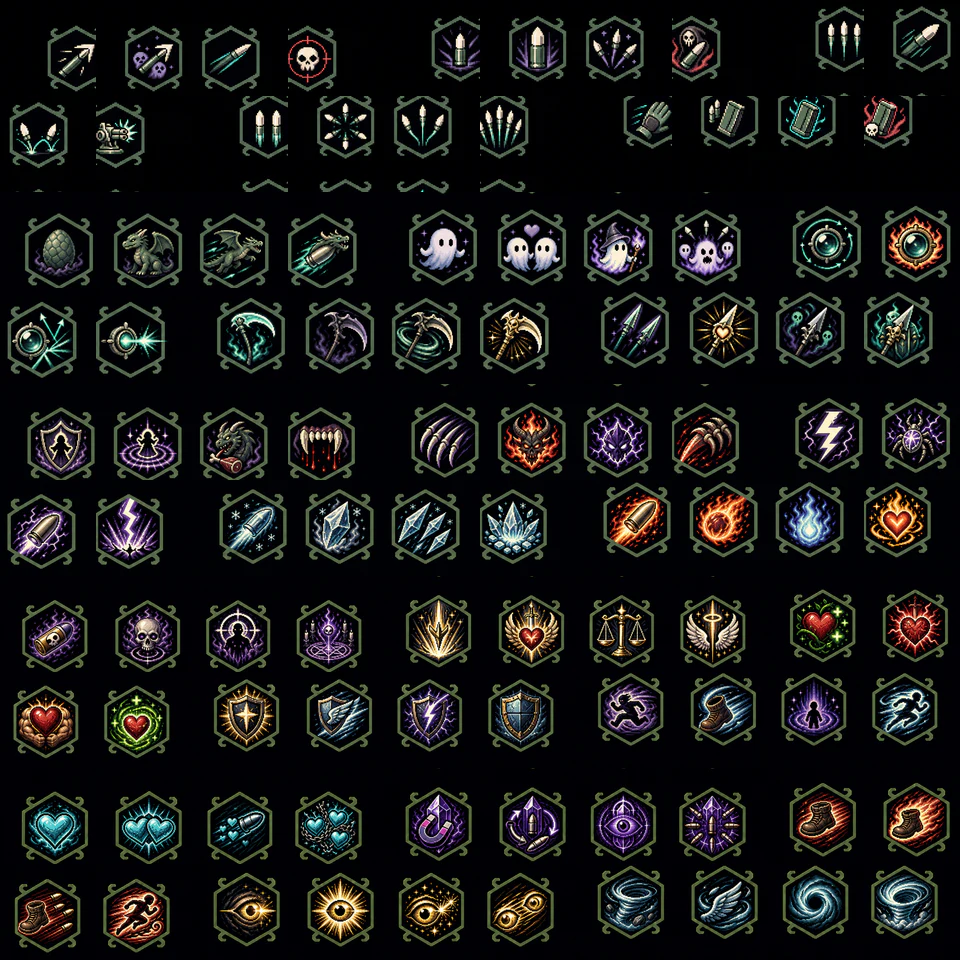
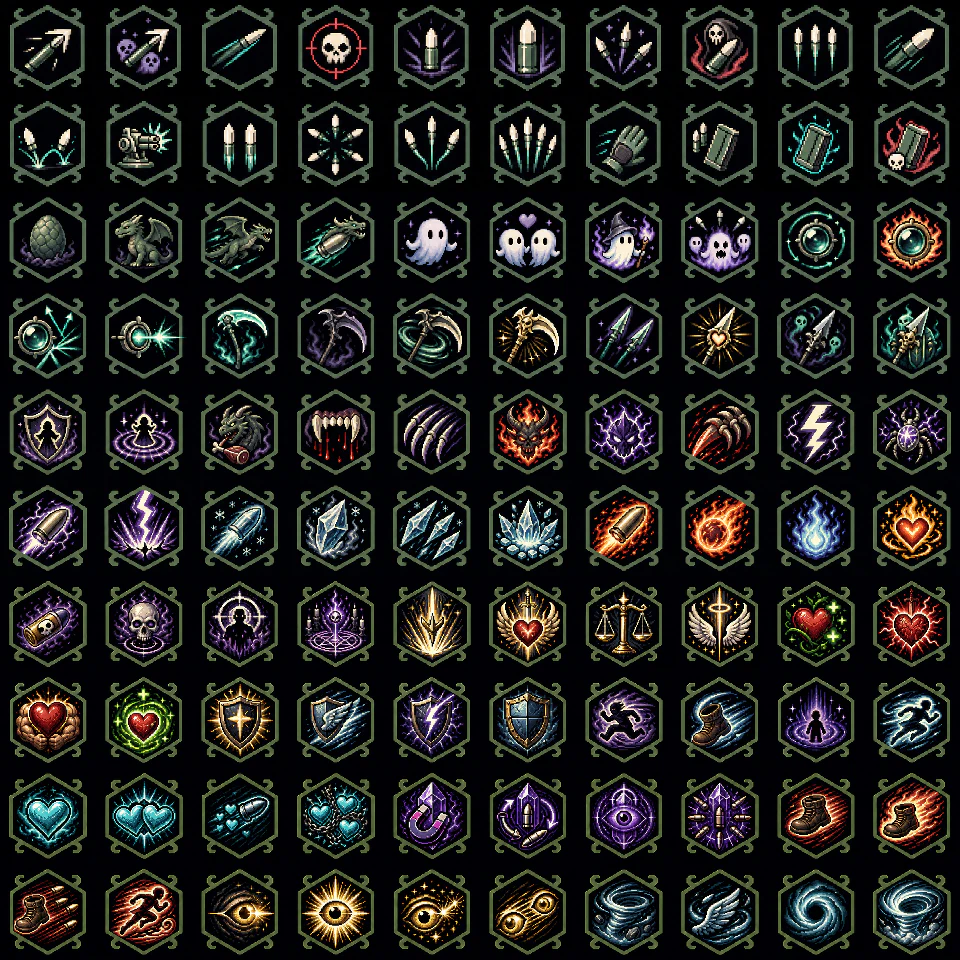
fix: center generated upgrade atlas

diff --git a/styles.css b/styles.css
@@ -102,14 +102,14 @@ h2 { margin: 2px 0 18px; font-size: clamp(28px, 8vw, 44px); line-height: 1; }
 .choice-actions .primary { background: #ff596f; color: #211824; }
 .choice-actions .secondary { min-width: 130px; }
 .choice-card__icon { grid-row: 1 / 5; display: grid; place-items: center; width: 38px; height: 38px; border: 1px solid rgba(101,230,255,.28); border-radius: 10px; background: radial-gradient(circle, rgba(101,230,255,.18), rgba(168,129,255,.08)); color: var(--cyan); font-size: 23px; line-height: 1; text-shadow: 0 0 12px rgba(101,230,255,.7); }
-.choice-card__icon--atlas { width: 48px; height: 48px; margin-left: -5px; border: 0; border-radius: 7px; background-image: url('./assets/ui/upgrade-icons.webp'); background-size: 1000% 1000%; background-repeat: no-repeat; image-rendering: pixelated; box-shadow: 0 0 15px rgba(101,230,255,.13); }
+.choice-card__icon--atlas { width: 48px; height: 48px; margin-left: -5px; border: 0; border-radius: 7px; background-image: url('./assets/ui/upgrade-icons.webp?build=20260825k'); background-size: 1000% 1000%; background-repeat: no-repeat; image-rendering: pixelated; box-shadow: 0 0 15px rgba(101,230,255,.13); }
 .choice-tab .choice-card__icon { grid-row: auto; }
 .choice-tab .choice-card__icon--atlas { width: min(64px, 72%); height: auto; aspect-ratio: 1; margin: 0; border: 2px solid transparent; box-shadow: none; }
 .choice-tab.selected .choice-card__icon--atlas { border-color: #87aa9d; box-shadow: inset 0 0 0 2px rgba(101,230,255,.2), inset 0 0 13px rgba(101,230,255,.18); filter: brightness(1.12); }
 .choice-detail__icon .choice-card__icon { grid-row: auto; width: 58px; height: 58px; }
 .choice-detail__icon .choice-card__icon--atlas { margin: 0; border-radius: 9px; }
 .choice-card__path { display: flex; gap: 6px; }
-.choice-card__path-icon { width: 22px; height: 22px; border-radius: 4px; opacity: .22; background: url('./assets/ui/upgrade-icons.webp') no-repeat; background-size: 1000% 1000%; image-rendering: pixelated; filter: grayscale(1); }
+.choice-card__path-icon { width: 22px; height: 22px; border-radius: 4px; opacity: .22; background: url('./assets/ui/upgrade-icons.webp?build=20260825k') no-repeat; background-size: 1000% 1000%; image-rendering: pixelated; filter: grayscale(1); }
 .choice-card__path-icon.owned { opacity: .72; filter: none; }
 .choice-card__path-icon.current { opacity: 1; filter: none; outline: 1px solid var(--cyan); box-shadow: 0 0 8px rgba(101,230,255,.45); }
 

diff --git a/tests/upgrade-atlas.test.js b/tests/upgrade-atlas.test.js
@@ -1,0 +1,34 @@
+import assert from 'node:assert/strict';
+import { fileURLToPath } from 'node:url';
+import test from 'node:test';
+import sharp from 'sharp';
+
+const FRAME_SIZE = 96;
+const VISIBLE_LEVEL = 36;
+
+test('every upgrade icon is centered inside its atlas frame', async () => {
+  const file = fileURLToPath(new URL('../assets/ui/upgrade-icons.webp', import.meta.url));
+  const { data, info } = await sharp(file).removeAlpha().raw().toBuffer({ resolveWithObject: true });
+  for (let frame = 0; frame < 100; frame += 1) {
+    const frameLeft = (frame % 10) * FRAME_SIZE;
+    const frameTop = Math.floor(frame / 10) * FRAME_SIZE;
+    let minX = FRAME_SIZE;
+    let minY = FRAME_SIZE;
+    let maxX = -1;
+    let maxY = -1;
+    for (let y = 0; y < FRAME_SIZE; y += 1) {
+      for (let x = 0; x < FRAME_SIZE; x += 1) {
+        const offset = ((frameTop + y) * info.width + frameLeft + x) * info.channels;
+        if (Math.max(data[offset], data[offset + 1], data[offset + 2]) < VISIBLE_LEVEL) continue;
+        minX = Math.min(minX, x);
+        minY = Math.min(minY, y);
+        maxX = Math.max(maxX, x);
+        maxY = Math.max(maxY, y);
+      }
+    }
+    assert.ok(maxX >= minX && maxY >= minY, `frame ${frame} must contain an icon`);
+    assert.ok(minX >= 4 && minY >= 4 && maxX <= 91 && maxY <= 91, `frame ${frame} must have safe padding`);
+    assert.ok(Math.abs((minX + maxX) / 2 - 47.5) <= 1.5, `frame ${frame} must be horizontally centered`);
+    assert.ok(Math.abs((minY + maxY) / 2 - 47.5) <= 1.5, `frame ${frame} must be vertically centered`);
+  }
+});

diff --git a/index.html b/index.html
@@ -5,7 +5,7 @@
     <meta name="viewport" content="width=device-width,initial-scale=1,viewport-fit=cover,user-scalable=no" />
     <meta name="theme-color" content="#09080d" />
     <title>Dawn Survivor</title>
-    <link rel="stylesheet" href="./styles.css?build=20260825j" />
+    <link rel="stylesheet" href="./styles.css?build=20260825k" />
     <script src="https://usions.com/usion-sdk.js"></script>
     <script src="https://usions.com/vendor/phaser/4.2.1/phaser.min.js"></script>
   </head>
@@ -114,6 +114,6 @@
       </div>
       <div id="toast" class="toast hidden"></div>
     </main>
-    <script type="module" src="./src/main.js?build=20260825i"></script>
+    <script type="module" src="./src/main.js?build=20260825k"></script>
   </body>
 </html>

diff --git a/src/main.js b/src/main.js
@@ -1,6 +1,6 @@
 import { HEROES } from './data/heroes.js?build=20260825g';
 import { WEAPONS } from './data/weapons.js';
-import { BootScene } from './game/BootScene.js?build=20260825h';
+import { BootScene } from './game/BootScene.js?build=20260825k';
 import { GameScene } from './game/GameScene.js?build=20260825g';
 import { installVisibleResume } from './game/runtimeLifecycle.js';
 import { defaultProfile, initPlatform } from './platform/usion.js';

diff --git a/src/config/assets.js b/src/config/assets.js
@@ -29,7 +29,7 @@ export const STATIC_ASSETS = {
   vfx: `${base}/fx/combat-vfx-atlas.webp`,
   ambient: `${base}/fx/map-ambient-atlas.webp`,
   spirit: `${base}/sprites/spirit-raven.webp`,
-  upgradeIcons: `${base}/ui/upgrade-icons.webp`,
+  upgradeIcons: `${base}/ui/upgrade-icons.webp?build=20260825k`,
   mysteriousTree: `${base}/sprites/mysterious-tree-4f.webp`,
 };
 

diff --git a/src/game/BootScene.js b/src/game/BootScene.js
@@ -1,4 +1,4 @@
-import { BOSS_ATLASES, ENEMY_ATLASES, HERO_ATLASES, STATIC_ASSETS } from '../config/assets.js?build=20260825h';
+import { BOSS_ATLASES, ENEMY_ATLASES, HERO_ATLASES, STATIC_ASSETS } from '../config/assets.js?build=20260825k';
 import { createDirectionalAnimations } from './animations.js';
 
 export class BootScene extends Phaser.Scene {

diff --git a/tasks/lessons.md b/tasks/lessons.md
@@ -29,3 +29,4 @@
 - A ground texture can match the target palette yet still cause fatigue when high-contrast rings and veins cover the viewport; map QA must measure quiet-area ratio, motif repetition, and long-play silhouette contrast.
 - Never apply generic adjacent-button margins to a modal that also contains horizontal button grids; scope vertical spacing to the exact action stack and assert every upgrade tab has zero margin.
 - Equal CSS grid cells are not enough for visual equality: a selected-only outer background or drop shadow can make one upgrade look larger and displaced. Keep selection feedback inside the same icon footprint and compare apparent bounds in screenshots.
+- Never assume an AI-generated sheet fills an equal mathematical grid. Detect the real content bands and center each visible frame before building an atlas; otherwise regular canvas slicing silently crops outer rows and columns.
